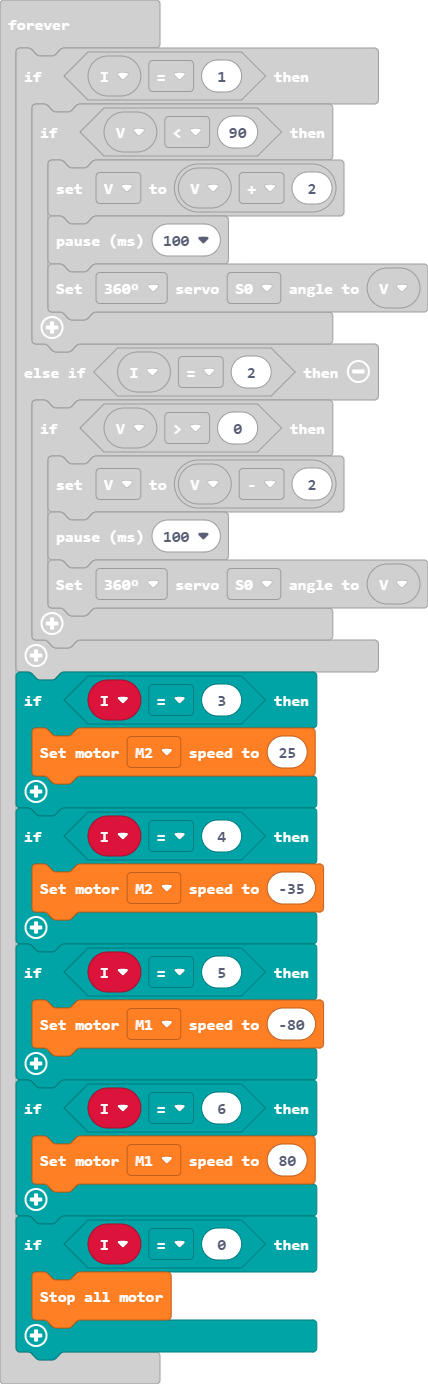
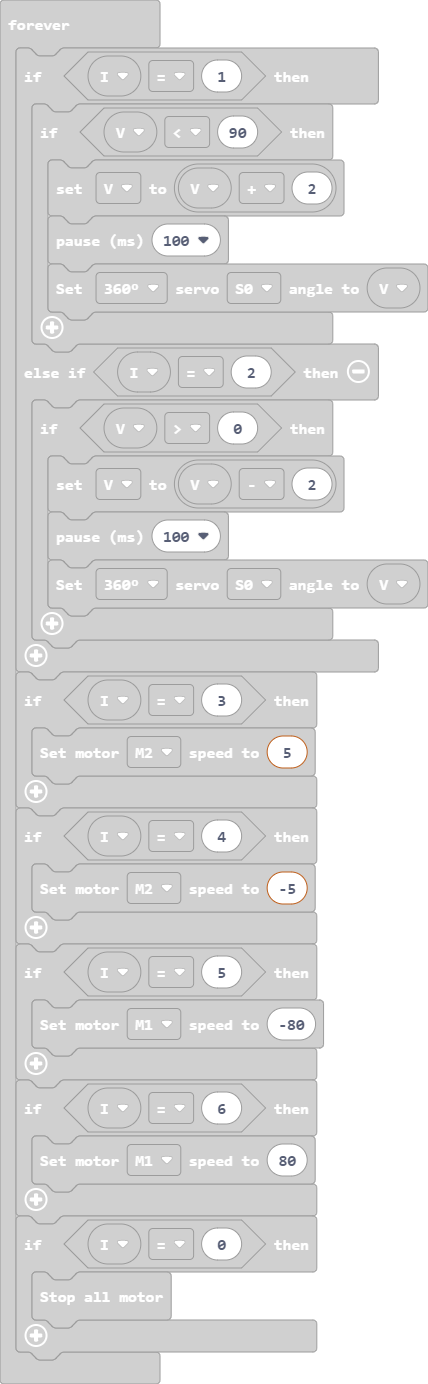
Update main.blocks, main.ts

diff --git a/main.ts b/main.ts
@@ -21,10 +21,10 @@ basic.forever(function () {
         }
     }
     if (I == 3) {
-        wuKong.setMotorSpeed(wuKong.MotorList.M2, 25)
+        wuKong.setMotorSpeed(wuKong.MotorList.M2, 5)
     }
     if (I == 4) {
-        wuKong.setMotorSpeed(wuKong.MotorList.M2, -35)
+        wuKong.setMotorSpeed(wuKong.MotorList.M2, -5)
     }
     if (I == 5) {
         wuKong.setMotorSpeed(wuKong.MotorList.M1, -80)
